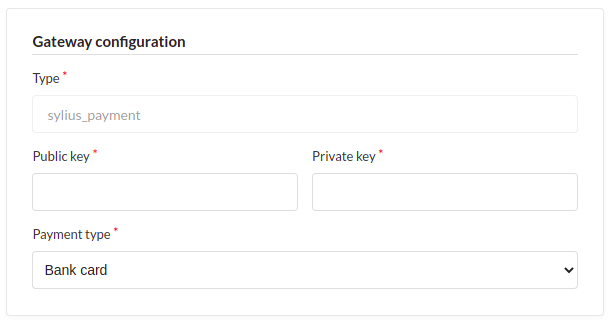
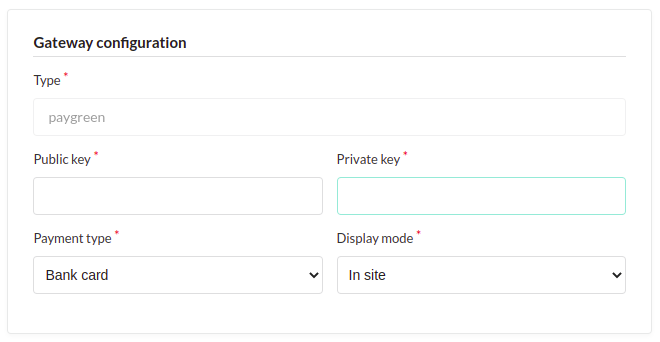
Update documentation

diff --git a/README.md b/README.md
@@ -48,6 +48,7 @@ PAYGREEN_API_SERVER=PRODUCTION
 - [How to display if the product is payable in meal voucher or not?](https://github.com/PayGreen/sylius-paygreen-plugin/blob/master/doc/how-to-display-if-the-product-is-payable-in-meal-voucher-or-not.md)
 - [How to make delivery payable via meal voucher?](https://github.com/PayGreen/sylius-paygreen-plugin/blob/master/doc/how-to-make-delivery-payable-via-meal-voucher.md)
 - [How to hide the meal ticket payment if it is not available for this cart?](https://github.com/PayGreen/sylius-paygreen-plugin/blob/master/doc/how-to-hide-the-meal-voucher-payment-method-if-it-is-not-available-for-this-cart.md)
+- [How to customize "insite" display mode template?](https://github.com/PayGreen/sylius-paygreen-plugin/blob/master/doc/how-to-customize-insite-display-mode.md)
 
 ## Contribution
 

diff --git a/doc/how-to-customize-insite-display-mode.md b/doc/how-to-customize-insite-display-mode.md
@@ -1,0 +1,19 @@
+# How to customize "insite" display mode template?
+
+Create new file `src/templates/bundles/PaygreenSyliusPaygreenPlugin/Checkout/inSite.html.twig`.
+
+Add this content:
+
+```html
+{% extends '@SyliusShop/Checkout/layout.html.twig' %}
+
+{% block content %}
+
+<div class="ui centered grid">
+    {% include '@PaygreenSyliusPaygreenPlugin/Checkout/_iframe.html.twig' %}
+</div>
+
+{% endblock %}
+```
+
+And modify this file as you wish.
